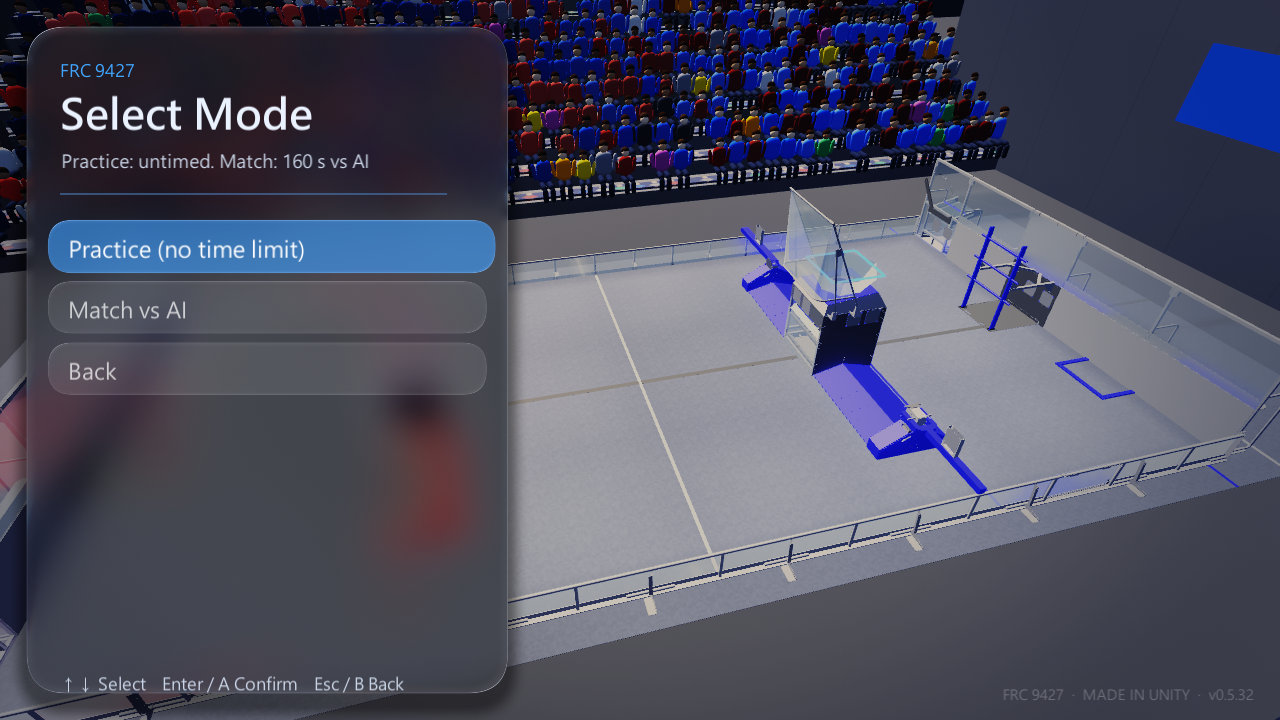
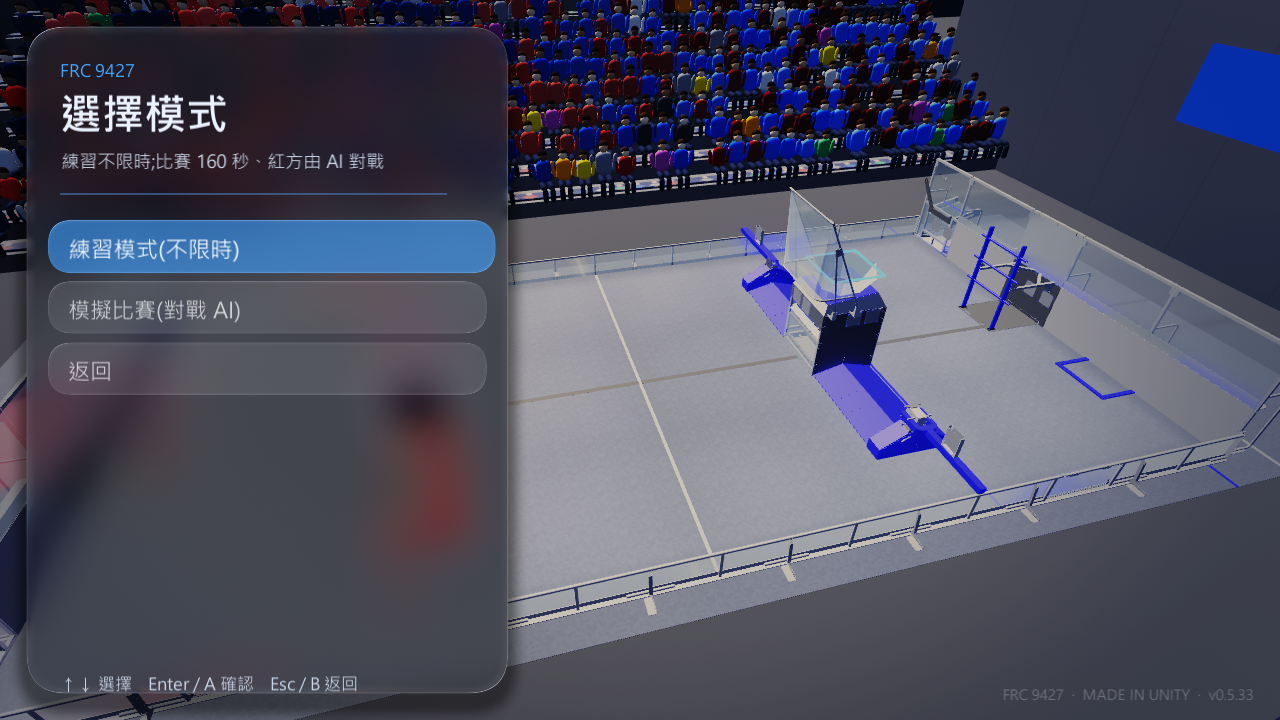
v0.5.33 About

diff --git a/Assets/Scripts/UI/MenuSystem.cs b/Assets/Scripts/UI/MenuSystem.cs
@@ -96,6 +96,7 @@ namespace FrcSim
             splashing = false;
             if (startMenu == "setup") { ShowRobotSetup(); yield break; } if (startMenu == "pad") { ShowPadSetup(ShowRobotSetup, ShowMain); yield break; }
             if (startMenu == "controls") { ShowControls(); yield break; }
+            if (startMenu == "about") { ShowAbout(); yield break; }
             if (startMenu == "settings") { settingsBack = ShowMain; ShowSettings(false); yield break; }
             if (startMenu == "modes") { ShowModes(); yield break; }
             if (startMenu == "catalog") { ShowSub(() => Z("開源機器人程式庫", "Open-source robot library"), () => Z("別隊公開的 2026 程式:下載後直接在模擬器跑", "Public 2026 team code: download and run"), CatalogItems()); yield break; }
@@ -525,6 +526,25 @@ namespace FrcSim
         }
         Action lastControls;
 
+        void ShowAbout()
+        { PreviewRobot.Want = false;
+            string Body() => Z(
+                "FRC 9427 模擬器  v" + UpdateCheck.Current + "   ·   MADE IN UNITY\n\n本軟體為非官方的學生專案,與 FIRST 無關。比賽規則依 2026 REBUILT 官方文件。\n\n機器人 3D 模型\n  • AdvantageScope 公開資產(Mechanical Advantage 6328,BSD-3-Clause)\n  • 2026 真機 CAD:971 / 604 / 967 / 3928 / 48 / 1678 / 2910(各隊在 Onshape 公開釋出,僅供個人學習使用)\n\n開源機器人程式(各隊 GitHub 公開,下載後在本機執行)\n  • FRC 6901、1710、1405、364、4915、REV ION StarterBot\n\n向以上所有團隊致謝。",
+                "FRC 9427 Simulator  v" + UpdateCheck.Current + "   ·   MADE IN UNITY\n\nUnofficial student project, not affiliated with FIRST. Rules follow the official 2026 REBUILT documents.\n\nRobot 3D models\n  • AdvantageScope public assets (Mechanical Advantage 6328, BSD-3-Clause)\n  • 2026 real CAD: 971 / 604 / 967 / 3928 / 48 / 1678 / 2910 (publicly released on Onshape; personal study use only)\n\nOpen-source robot code (public on each team's GitHub, run locally after download)\n  • FRC 6901, 1710, 1405, 364, 4915, REV ION StarterBot\n\nThank you to all of these teams.");
+            var s = Build(() => Z("關於 / 致謝", "About / Credits"), null, new[]
+            {
+                new Item(() => Loc.T("menu.back"), ShowMain),
+            }, ShowMain, content =>
+            {
+                var tx = UiKit.Label("About", content, Body(), 19, UiTheme.Text, TextAnchor.UpperLeft);
+                tx.lineSpacing = 1.15f; tx.horizontalOverflow = HorizontalWrapMode.Wrap; tx.verticalOverflow = VerticalWrapMode.Overflow;
+                UiKit.PlaceTL(tx.rectTransform, 90, 320, 640, 600);
+                lastControls = () => { tx.text = Body(); };
+            }, 940f);
+            s.Refreshers.Add(() => lastControls?.Invoke());
+            Show(s, false);
+        }
+
         void ShowPause()
         {
             var s = Build(() => Loc.T("pause.title"), null, new[]
@@ -656,5 +676,9 @@ namespace FrcSim
         }
     }
 }
+
+
+
+
 
 

diff --git a/Assets/Scripts/Sim/UpdateCheck.cs b/Assets/Scripts/Sim/UpdateCheck.cs
@@ -17,7 +17,7 @@ namespace FrcSim
     //   找不到差異包(或失敗)時退回「開啟下載頁」,讓使用者手動下載完整版。
     public class UpdateCheck : MonoBehaviour
     {
-        public const string Current = "0.5.32";
+        public const string Current = "0.5.33";
         const string Repo = "frc9427liu-tech/FRC9427-SimApp";
         const string ReleasesApi = "https://api.github.com/repos/" + Repo + "/releases?per_page=30";
         public const string Page = "https://github.com/" + Repo + "/releases/latest";
@@ -235,6 +235,7 @@ Start-Process -FilePath $Exe -WorkingDirectory $Dst
 ";
     }
 }
+
 
 
 
